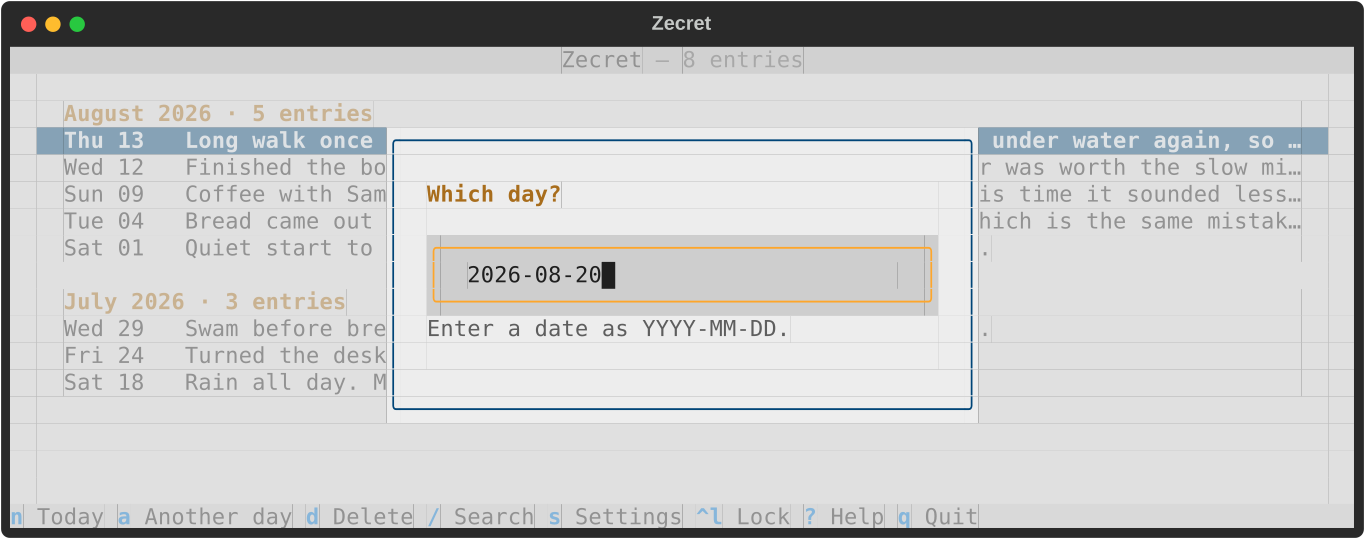
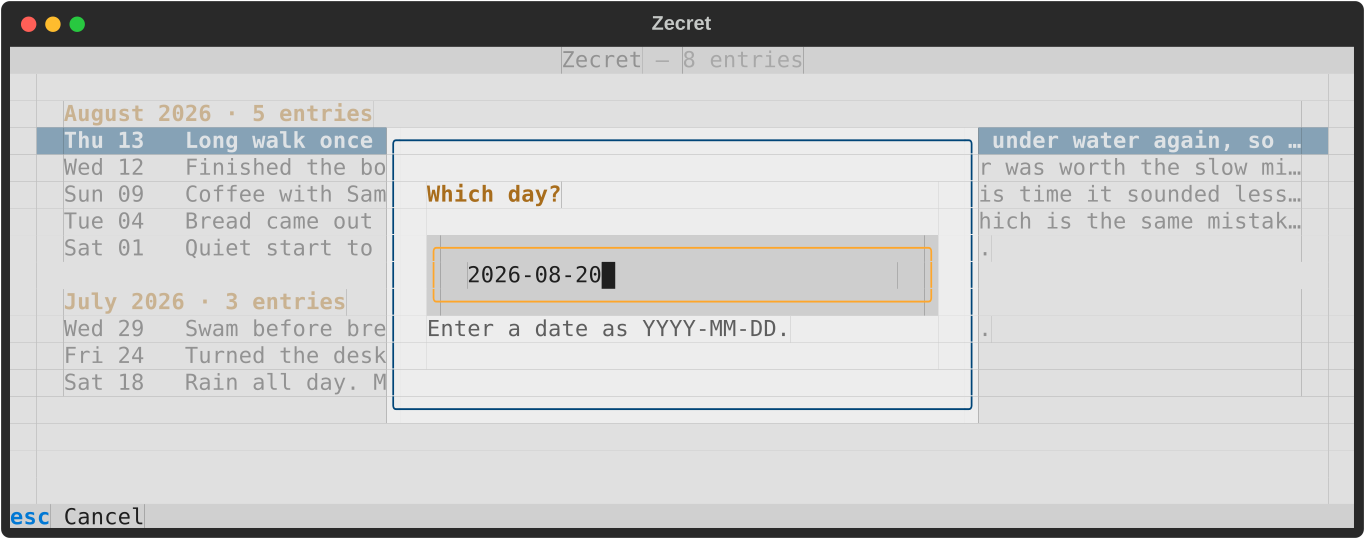
fix: give the modals a key bar of their own, not the dead one showing through

Changed region(s): [[0.0, 0.9499, 0.7077, 0.9796]]

diff --git a/tests/test_chrome.py b/tests/test_chrome.py
@@ -10,6 +10,9 @@ Required coverage:
       every screen wears the same compact footer.
     - Lock is one of the keys the bar advertises. Being able to find it is
       what the bar is for here, so this is not a styling detail.
+    - A modal shows its own key. Without a footer of its own it let the
+      entry list's bar show through, advertising eight keys that do
+      nothing while a question has focus and none of the one that does.
 """
 
 from __future__ import annotations
@@ -207,13 +210,33 @@ async def test_the_key_bar_advertises_lock(diary_path):
         assert "^l Lock" in footer_text(app)
 
 
+async def test_a_modal_advertises_its_own_key_and_not_the_list_behind_it(diary_path):
+    """A ModalScreen renders over the screen it was opened from, so with no
+    footer of its own the list's bar stayed on show -- every key on it dead
+    while the question had focus, and 'esc Cancel' displayed nowhere
+    despite being declared show=True."""
+    app = ZecretApp(diary_path=diary_path)
+    async with app.run_test(size=(NARROWEST, 20)) as pilot:
+        await unlock(pilot)
+        for key in ("a", "d"):
+            await pilot.press(key)
+            await pilot.pause()
+            await pilot.pause()
+            bar = footer_text(app)
+            assert "esc Cancel" in bar, f"{key!r} opened a modal with no key of its own: {bar!r}"
+            assert "n Today" not in bar, f"{key!r} left the list's dead keys on show: {bar!r}"
+            await pilot.press("escape")
+            await pilot.pause()
+            await pilot.pause()
+
+
 async def test_the_footer_is_compact_on_every_screen(diary_path):
     """One screen quietly using the roomy footer would look like a bug on
     the way in and out of it."""
     app = ZecretApp(diary_path=diary_path)
     async with app.run_test(size=(NARROWEST, 20)) as pilot:
         await unlock(pilot)
-        for key in ("n", "escape", "slash", "escape", "s"):
+        for key in ("n", "escape", "slash", "escape", "s", "escape", "a", "escape", "d"):
             await pilot.press(key)
             await pilot.pause()
             await pilot.pause()

diff --git a/src/zecret/screens/confirm.py b/src/zecret/screens/confirm.py
@@ -14,6 +14,8 @@ from textual.containers import Horizontal, Vertical
 from textual.screen import ModalScreen
 from textual.widgets import Button, Label
 
+from zecret.screens.header import DiaryFooter
+
 
 class ConfirmScreen(ModalScreen[bool]):
     """Yes/no modal. Dismisses True to confirm, False to cancel."""
@@ -33,6 +35,13 @@ class ConfirmScreen(ModalScreen[bool]):
             with Horizontal(id="confirm-buttons"):
                 yield Button(self.confirm_label, variant="error", id="confirm-yes")
                 yield Button("Cancel", variant="primary", id="confirm-no")
+        # The screen underneath keeps rendering its own bar, and every
+        # key on it is dead while this question has focus -- so without
+        # one of our own the terminal advertises eight keys that do
+        # nothing and hides the one that does. See CLAUDE.md on `show`
+        # being a layout decision: it is only a decision where there is a
+        # footer for it to decide about.
+        yield DiaryFooter()
 
     def on_mount(self) -> None:
         # Focus Cancel, not the destructive button: a stray Enter should not

diff --git a/src/zecret/screens/date_prompt.py b/src/zecret/screens/date_prompt.py
@@ -22,6 +22,7 @@ from textual.screen import ModalScreen
 from textual.widgets import Label, MaskedInput
 
 from zecret.screens.base import today
+from zecret.screens.header import DiaryFooter
 
 PROMPT = "Which day?"
 HINT = "Enter a date as YYYY-MM-DD."
@@ -56,6 +57,13 @@ class DatePromptScreen(ModalScreen[dt.date | None]):
             )
             yield Label(HINT, id="date-hint")
             yield Label("", id="date-error")
+        # The screen underneath keeps rendering its own bar, and every
+        # key on it is dead while this question has focus -- so without
+        # one of our own the terminal advertises eight keys that do
+        # nothing and hides the one that does. See CLAUDE.md on `show`
+        # being a layout decision: it is only a decision where there is a
+        # footer for it to decide about.
+        yield DiaryFooter()
 
     def on_mount(self) -> None:
         self.query_one("#date", MaskedInput).focus()

diff --git a/CLAUDE.md b/CLAUDE.md
@@ -365,6 +365,13 @@ patch number, not a retry. This is why `check` and `verify` run first.
   opposite directions and no theme variable can say so — the reasoning is
   written there. Adding a card means adding it to that selector list too,
   or it will look right in dark and vanish in light. Screens carry a `SUB_TITLE` so the header says where you are.
+- **Every screen carries a `DiaryFooter`, modals included.** A
+  `ModalScreen` renders over the screen it was opened from rather than
+  replacing it, so one without a footer does not show *no* bar -- it shows
+  the bar underneath, whose keys are all dead while the modal has focus.
+  `tests/test_chrome.py` checks that a modal advertises its own key and
+  not the list's. `HelpScreen` is the exception and stays one: its box
+  fills the terminal and says "esc or ? to close" in its own corner.
 - **`show` is a layout decision, not a documentation one.** A binding's
   `show=True` puts it in the footer and nothing more; the help popup lists
   every binding either way (`documented_bindings()` in `screens/help.py`).

diff --git a/CHANGELOG.md b/CHANGELOG.md
@@ -28,6 +28,11 @@ file matters as much as that does.
 
 ### Fixed
 
+- **The key bar tells the truth while a question is on screen.** Asking
+  which day to write about, or whether to delete an entry, left the entry
+  list's bar showing underneath — eight keys, none of which did anything
+  until the question was answered, and no sign of the <kbd>esc</kbd> that
+  did. Both now carry their own bar saying so.
 - **The light themes no longer read as one flat sheet of grey.** Zecret
   drew every card as a lift off the page behind it, which is how depth
   works on a dark background and not at all how it works on a pale one —
